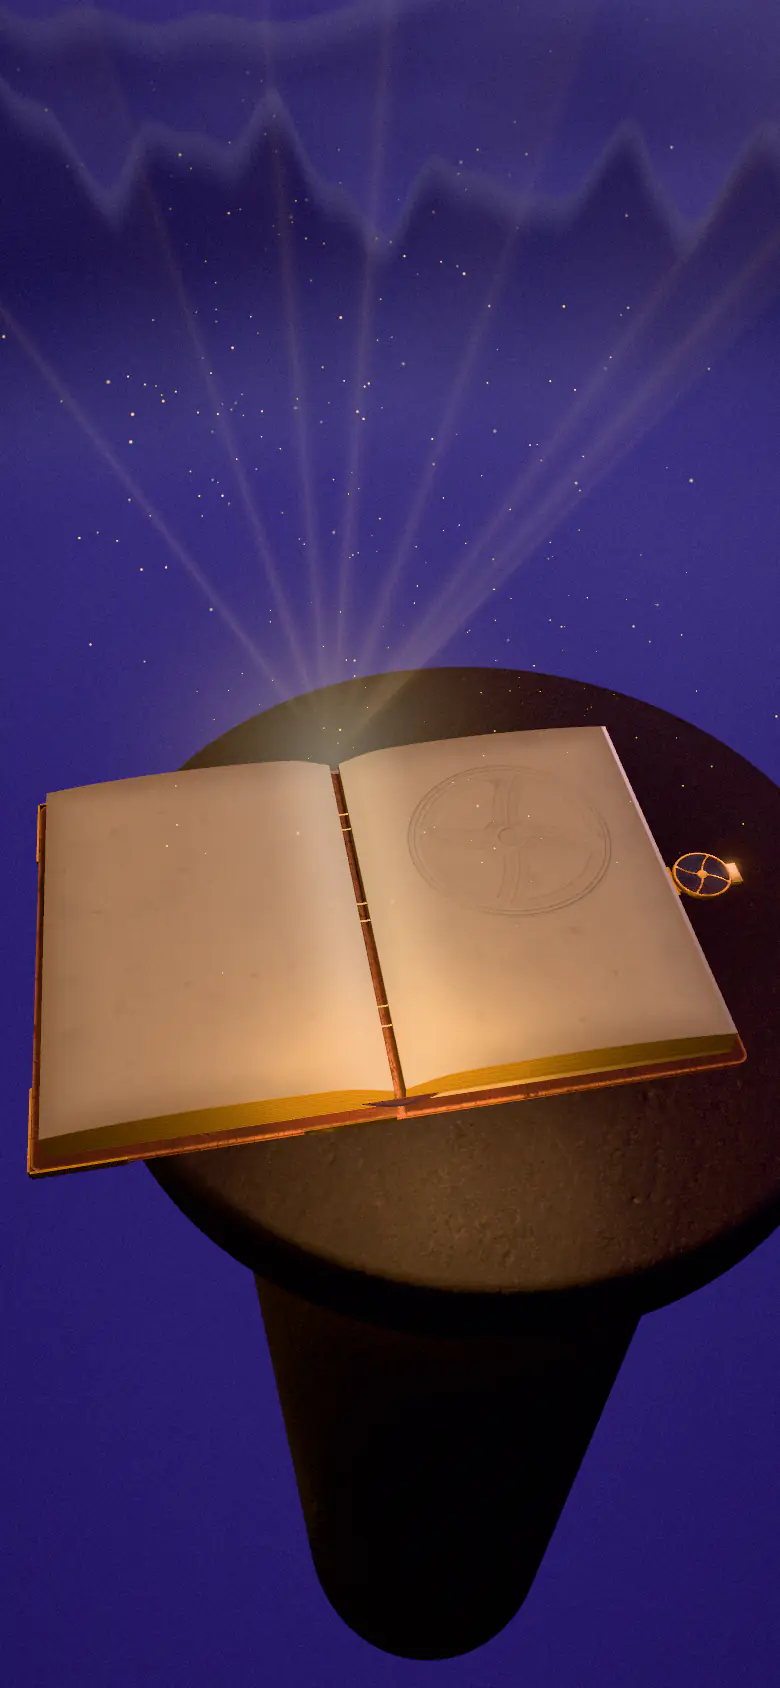
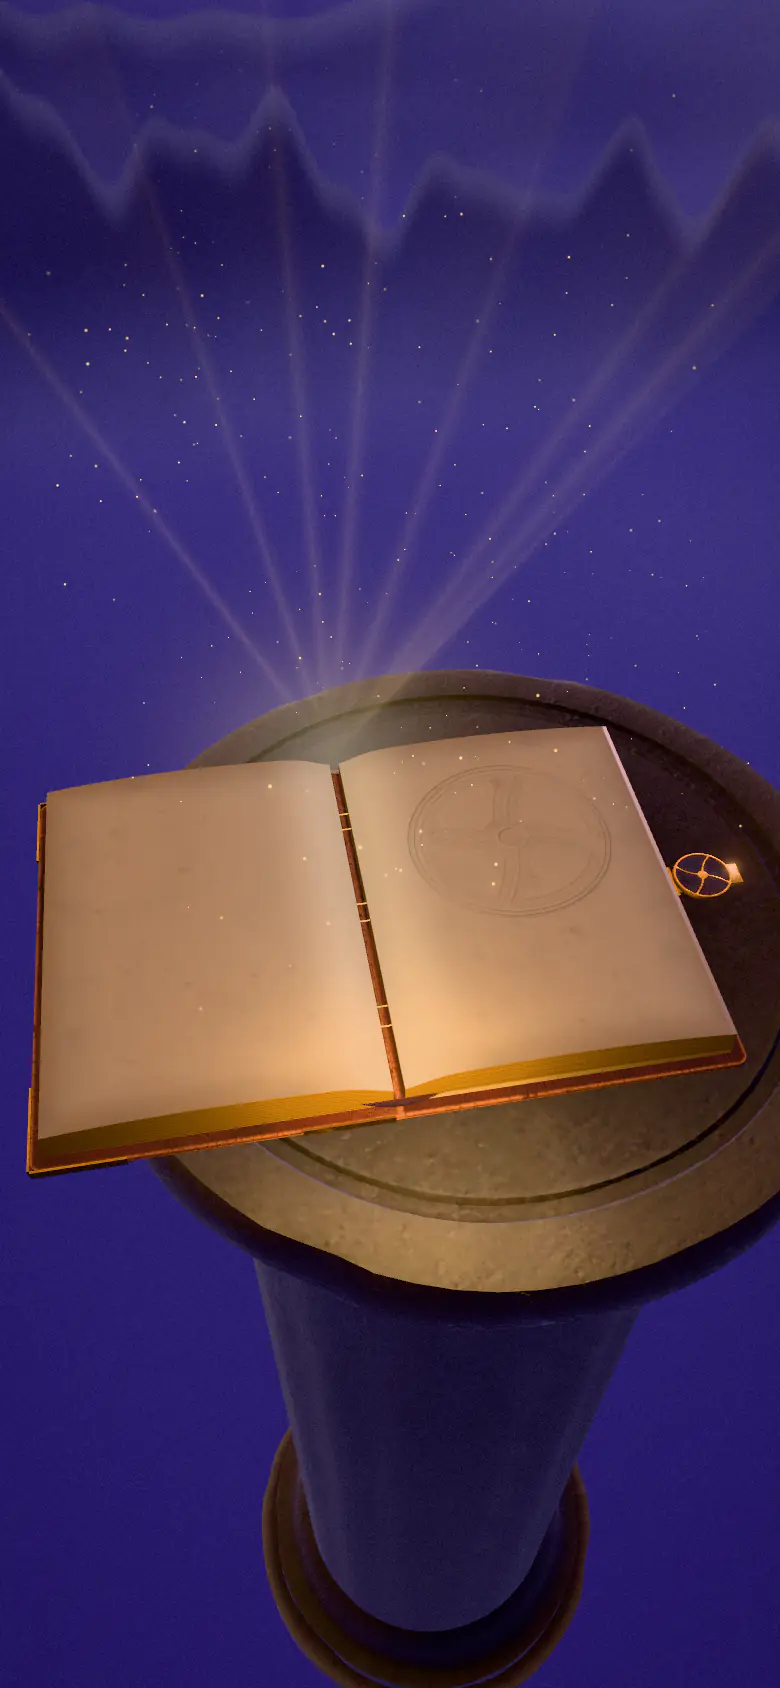
feat(intro): a carved stone altar under the book: worn slab with a cut ring, torus moulding, fluted column, stepped base
The plinth was three plain pieces with a tiled rock texture. The altar is now one
piece turned from a classical profile in Blender (4.7k triangles, about what the
old pieces had): a slab with a worn, chipped edge and a ring cut into its top
around the book, a torus-and-cavetto moulding, a column with sixteen real flutes
and a slight entasis, a stepped base. Its material is baked (edge wear, grime in
the recesses and the cut ring, broad tone variation over the CC0 Poly Haven rock)
on a cylinder unwrap that gives the slab and moulding most of the texture, with a
planar patch at the slab's centre; the web adds a fine tiled rock grain and a cool
rim that draws the column's flutes against the sky. The static images (level C and
the questions' background) are re-shot with it. Assets: 2.8 MB.

diff --git a/app/src/components/intro/cena/livro.ts b/app/src/components/intro/cena/livro.ts
@@ -109,14 +109,15 @@ export async function carregarLivro(): Promise<Livro> {
   const tl = new TextureLoader();
   const CONJ = ['couro', 'metal', 'papel'] as const;
   type Conj = (typeof CONJ)[number];
-  const [gLivro, gCenario, texPedra, texPedraN, texReg, texTra, texAr, ...cozidas] = await Promise.all([
+  const [gLivro, gCenario, texPedra, texPedraN, altarBase, altarNormal, altarOrm, texReg, texTra, texAr, ...cozidas] = await Promise.all([
     loader.loadAsync(BASE + 'livro.glb'), loader.loadAsync(BASE + 'cenario.glb'),
     carregarTextura(tl, 'pedra-base.jpg', true), carregarTextura(tl, 'pedra-normal.jpg', false),
+    carregarTextura(tl, 'altar-base.webp', true, true), carregarTextura(tl, 'altar-normal.webp', false, true), carregarTextura(tl, 'altar-orm.webp', false, true),
     carregarTextura(tl, 'selo-regioes.png', false), carregarTextura(tl, 'selo-tracos.png', false), carregarTextura(tl, 'selo-ar-relevo.png', false),
     ...CONJ.flatMap((c) => (['base', 'normal', 'orm'] as const).map((k) => carregarTextura(tl, `${c}-${k}.webp`, k === 'base', true))),
   ]);
   const tex = Object.fromEntries(CONJ.map((c, i) => [c, { base: cozidas[i * 3], normal: cozidas[i * 3 + 1], orm: cozidas[i * 3 + 2] }])) as Record<Conj, { base: Texture; normal: Texture; orm: Texture }>;
-  const descartaveis: { dispose(): void }[] = [texPedra, texPedraN, texReg, texTra, texAr, ...cozidas];
+  const descartaveis: { dispose(): void }[] = [texPedra, texPedraN, altarBase, altarNormal, altarOrm, texReg, texTra, texAr, ...cozidas];
   const raiz = gLivro.scene.getObjectByName('Book_Root') ?? gLivro.scene;
   // sempre a partir da raiz: ao entrar na cena principal, a raiz sai de gLivro.scene
   const no = (n: string) => {
@@ -333,16 +334,31 @@ export async function carregarLivro(): Promise<Livro> {
   raiz.add(decal);
   descartaveis.push(decalGeo, decalMat);
 
-  /* ---------------- cenário: plinto e rochas ---------------- */
+  /* ---------------- cenário: o altar (cozido no Blender) e as rochas ---------------- */
   const cenario = gCenario.scene;
   const pedra = new MeshStandardNodeMaterial({ roughness: 0.92, metalness: 0 });
   // a textura dá o desenho da pedra; o token dá a cor (escura, levemente lilás, como no K1a)
   pedra.colorNode = texture(texPedra, uv().mul(2.4)).rgb.mul(color(COR.pedra)).mul(1.9);
   pedra.normalNode = normalMap(texture(texPedraN, uv().mul(2.4)), vec2(1.2));
   descartaveis.push(pedra);
+  // o altar: desgaste, sujeira nas reentrâncias e sulco entalhado vêm do cozimento; um detalhe fino de rocha,
+  // repetido, dá grão de perto (o cozido em 1024 sozinho ficava liso no tampo, onde a câmera chega)
+  const altar = new MeshStandardNodeMaterial({ metalness: 0 });
+  const altarOrmT = texture(altarOrm);
+  const graoPedra = texture(texPedra, uv().mul(9)).rgb.dot(vec3(0.33, 0.34, 0.33));
+  altar.colorNode = texture(altarBase).rgb.mul(graoPedra.mul(0.55).add(0.62)).mul(1.15);
+  altar.normalNode = normalMap(texture(altarNormal), vec2(1.3));
+  altar.roughnessNode = altarOrmT.g;
+  altar.aoNode = altarOrmT.r;
+  // luz de borda fria: a coluna (que a fresta não alcança) mostra a silhueta e as caneluras contra o céu
+  altar.emissiveNode = color(COR.contraluzFria).mul(fresnel(2.6)).mul(0.16);
+  descartaveis.push(altar);
   const rochas: Object3D[] = [];
   cenario.traverse((o) => {
-    if ((o as Mesh).isMesh) { ((o as Mesh).material as Material).dispose?.(); (o as Mesh).material = pedra; }
+    if ((o as Mesh).isMesh) {
+      ((o as Mesh).material as Material).dispose?.();
+      (o as Mesh).material = o.name === 'Altar' || o.parent?.name === 'Altar' ? altar : pedra;
+    }
     if (/^Rocha/.test(o.name)) rochas.push(o);
   });
   // rochas flutuantes compostas para o pôster 9:16 (câmera a −112°): pequenas, longe, dentro da névoa,
